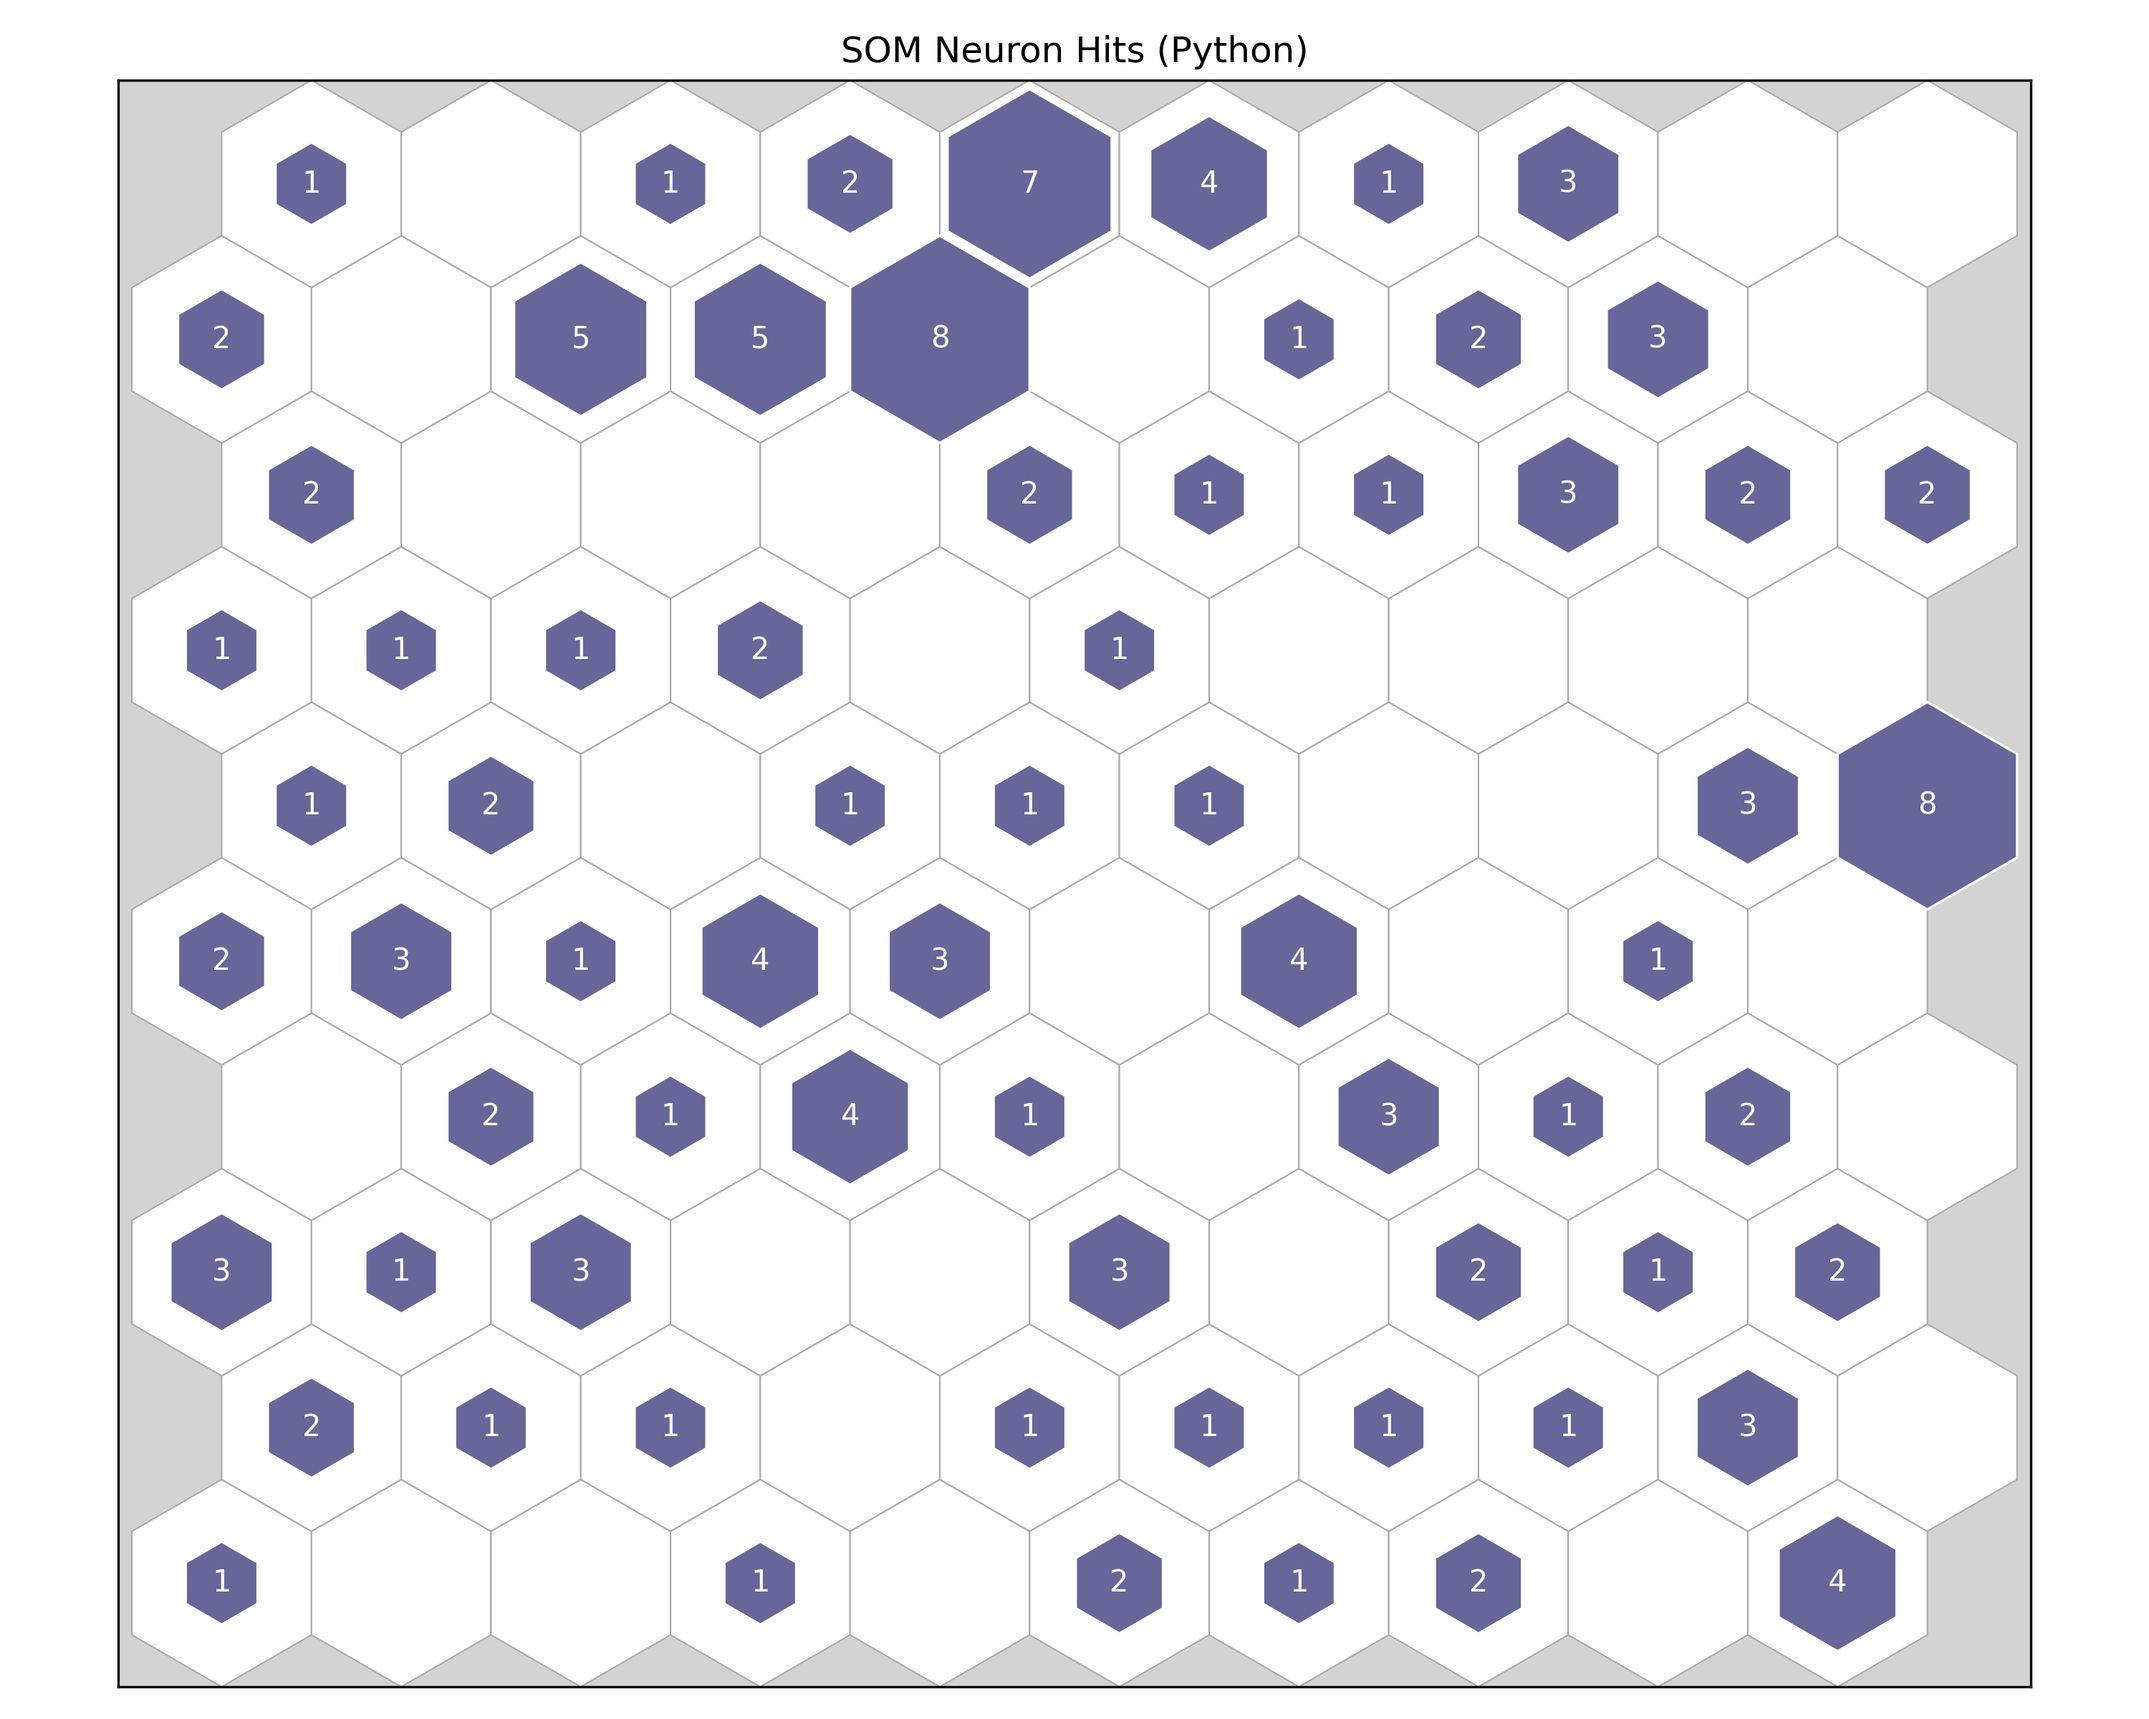
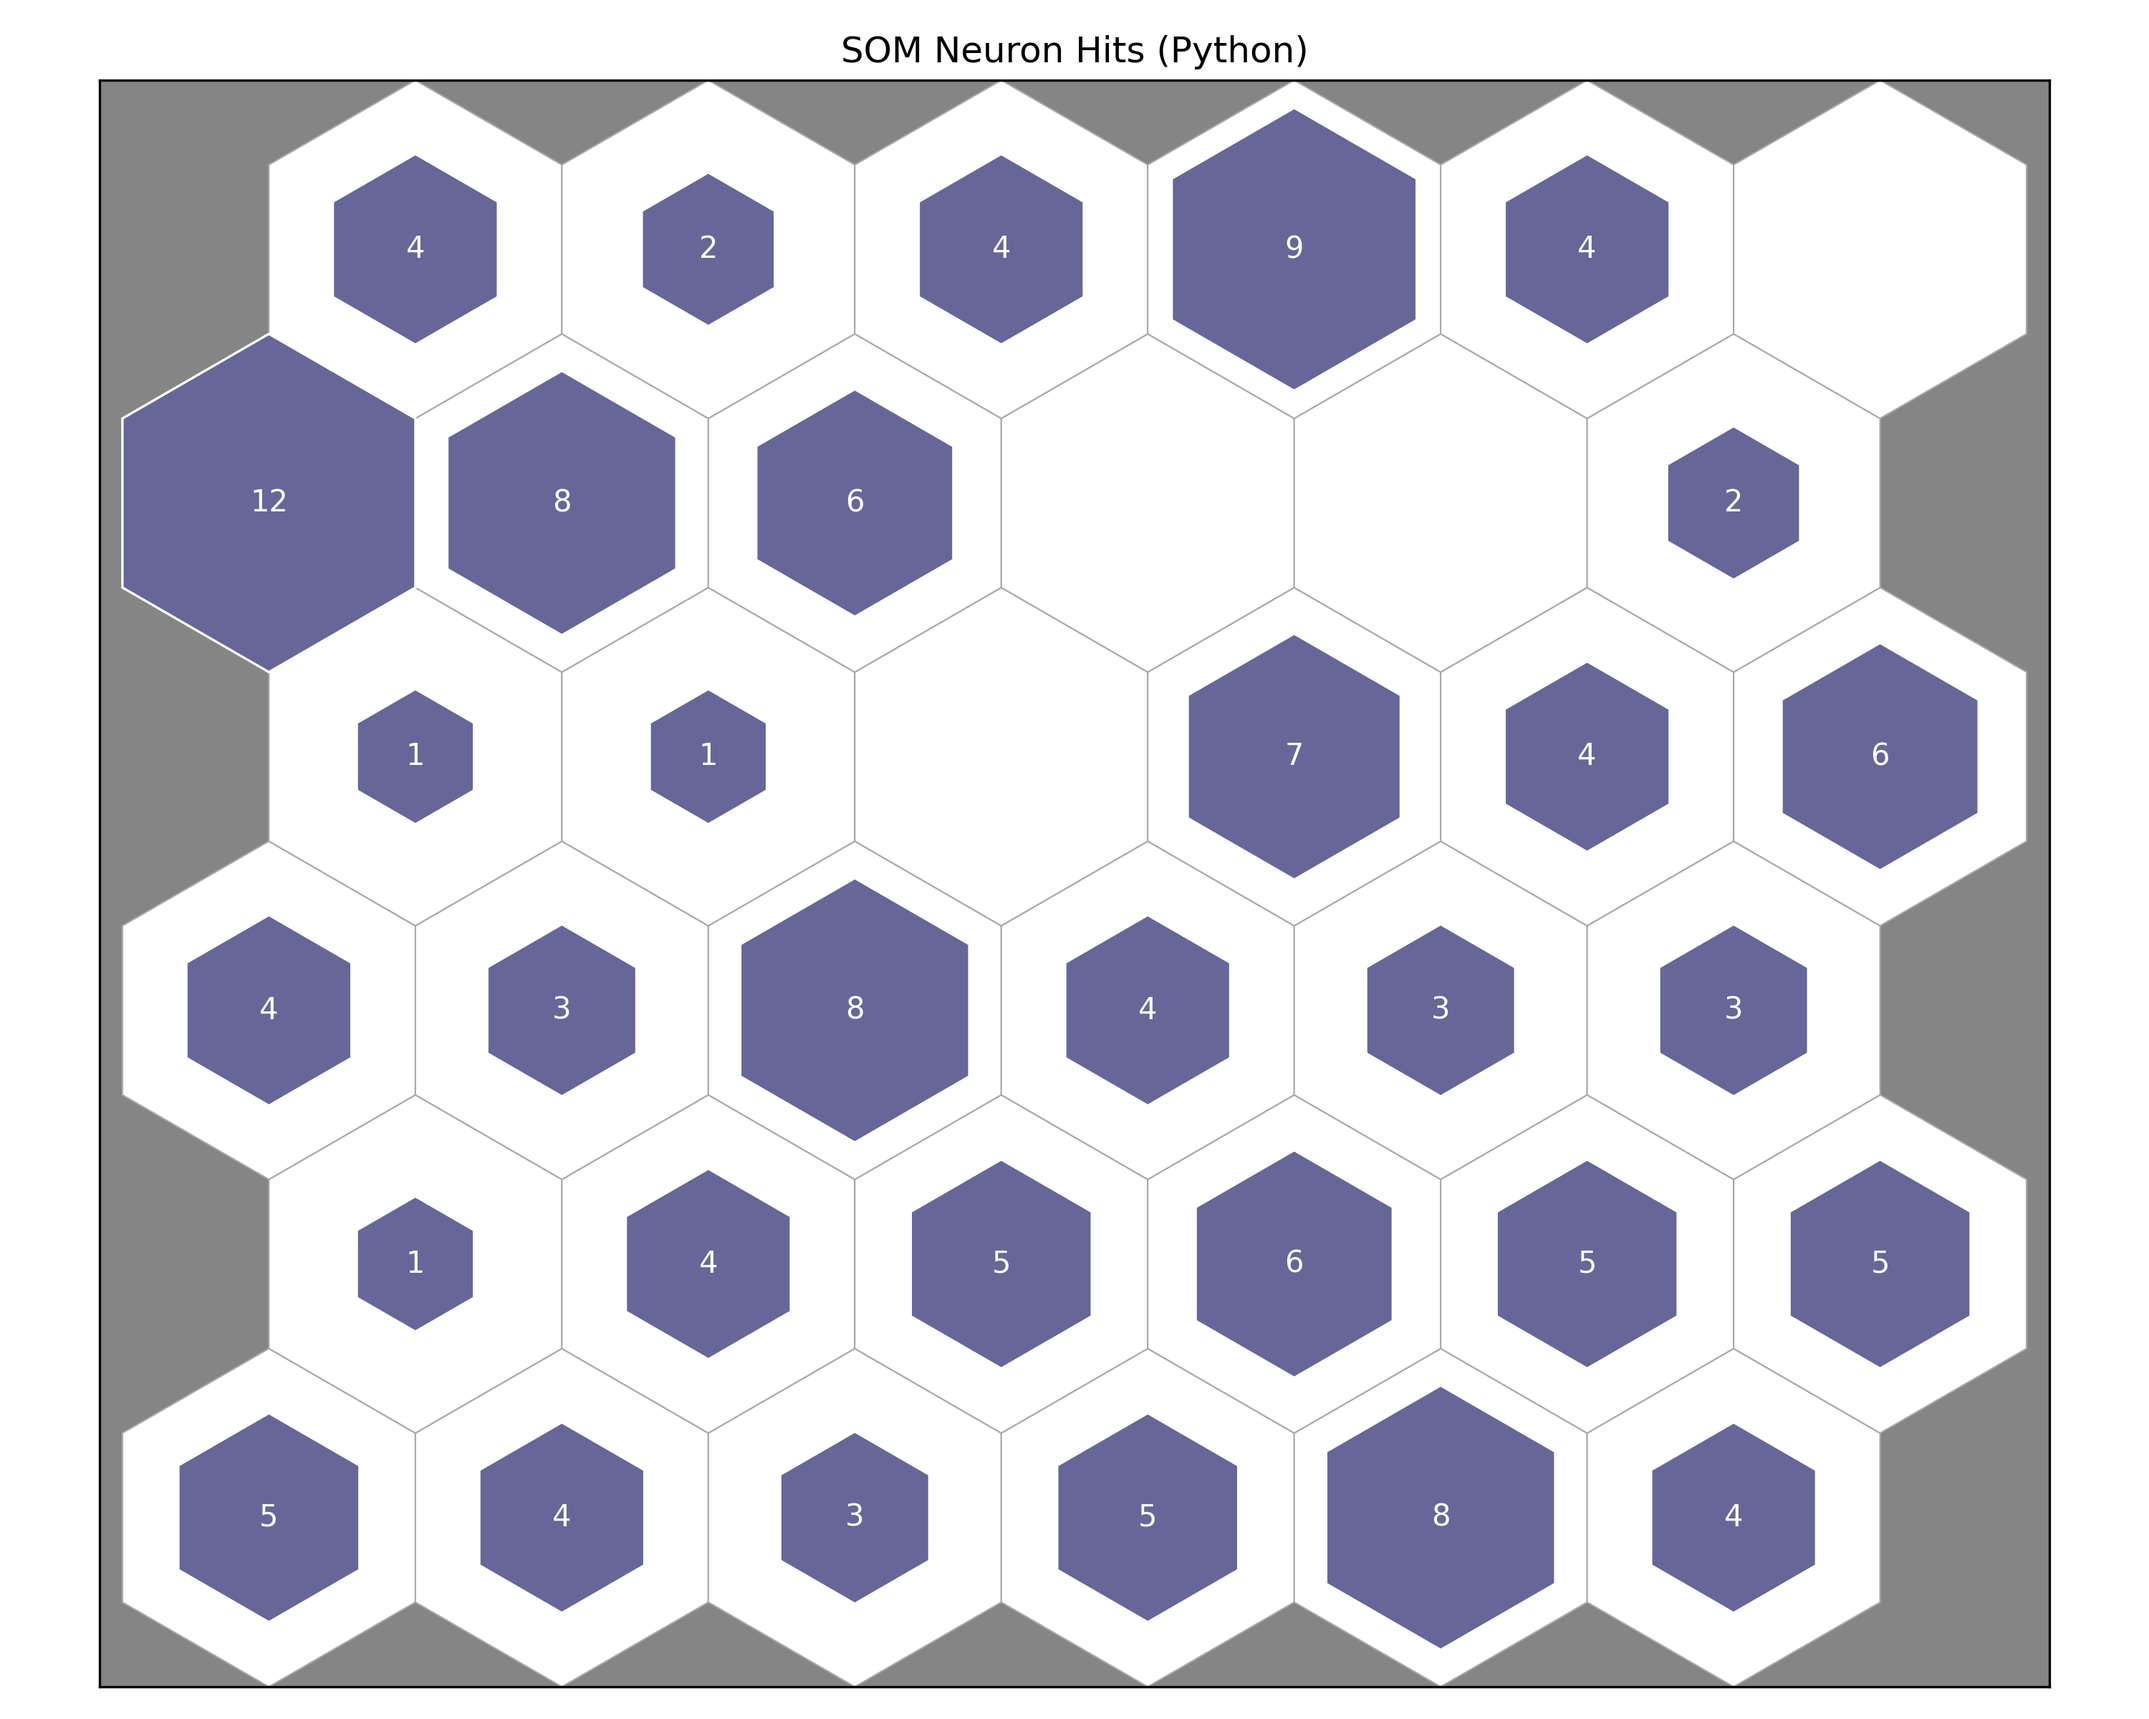
First test run saved with plotting functions

diff --git a/src/python/SelfOrgMap/minisom.py b/src/python/SelfOrgMap/minisom.py
@@ -680,7 +680,7 @@ class MiniSom(object):
 
         return um / um.max()
 
-    def plot_u_matrix(self, figsize=(10, 8), cmap="hot"):
+    def plot_u_matrix(self, figsize=(10, 8), cmap="hot", save=False):
         """
         Visualisiert die Unified Distance Matrix (U-Matrix) des SOM.
         Die U-Matrix zeigt die durchschnittlichen Abstände zwischen einem Neuron
@@ -705,9 +705,7 @@ class MiniSom(object):
 
         fig, ax = plt.subplots(figsize=figsize)
         ax.set_aspect("equal")
-        ax.set_facecolor(
-            "lightgray"
-        )  # Hintergrund des Plotbereichs auf hellgrau setzen
+        ax.set_facecolor("#858585")  # Hintergrund des Plotbereichs auf hellgrau setzen
 
         neuron_plot_radius = 1 / sqrt(3)  # Radius für "Rand an Rand" Darstellung
 
@@ -733,7 +731,6 @@ class MiniSom(object):
                     radius=neuron_plot_radius,
                     orientation=0,  # Flat-top Ausrichtung
                     facecolor=color,
-                    edgecolor="darkgray",
                     linewidth=0.5,
                     zorder=0,
                 )
@@ -759,9 +756,10 @@ class MiniSom(object):
         cbar.set_label("Distance in Feature Space")
 
         plt.tight_layout()
+        plt.savefig("som_u_matrix.png", dpi=300) if save else None
         plt.show()
 
-    def plot_som_planes(self, figsize=(12, 12), cmap="hot"):
+    def plot_som_planes(self, figsize=(12, 12), cmap="hot", save=False):
         """
         Visualisiert die einzelnen Feature-Ebenen (Component Planes) des SOM.
         Für jedes Feature wird ein separates Subplot erstellt, das die Gewichte
@@ -805,7 +803,7 @@ class MiniSom(object):
             ax = axes[feature_idx]
             ax.set_aspect("equal")
             ax.set_facecolor(
-                "lightgray"
+                "#858585"
             )  # Hintergrund des Plotbereichs auf hellgrau setzen
 
             feature_plane = self._weights[:, :, feature_idx]
@@ -828,7 +826,6 @@ class MiniSom(object):
                         radius=neuron_plot_radius,
                         orientation=0,  # Flat-top Ausrichtung
                         facecolor=color,
-                        edgecolor="darkgray",
                         linewidth=0.5,
                         zorder=0,
                     )
@@ -860,6 +857,7 @@ class MiniSom(object):
             axes[k].set_visible(False)
 
         plt.tight_layout()
+        plt.savefig("som_planes.png", dpi=300) if save else None
         plt.show()
 
     def plot_som_hits(
@@ -912,7 +910,7 @@ class MiniSom(object):
         ax.set_aspect("equal")
 
         # Hintergrund des Plotbereichs auf hellgrau setzen
-        ax.set_facecolor("lightgray")
+        ax.set_facecolor("#858585")
 
         neuron_centers_display = {}
 
@@ -1036,6 +1034,7 @@ class MiniSom(object):
 
         fig, ax = plt.subplots(figsize=figsize)
         ax.set_aspect("equal")
+        ax.set_facecolor("#858585")
 
         neuron_centers_display = {}
 

diff --git a/src/python/SelfOrgMap/minisom_test.py b/src/python/SelfOrgMap/minisom_test.py
@@ -1,6 +1,7 @@
 from minisom import MiniSom  # Importiere deine aktualisierte Klasse
 from sklearn.datasets import load_iris
 import numpy as np
+from sklearn.preprocessing import StandardScaler
 
 iris = load_iris()
 data = iris.data
@@ -70,14 +71,17 @@ data = (data - data_min) / (data_max - data_min)
 # --- NEU: input_len dynamisch bestimmen ---
 # Die Anzahl der Merkmale ist die Anzahl der Spalten im 2D-Datenarray
 data = iris.data
+# Daten normalisieren (spaltenweise) mit StandardScaler
+scaler = StandardScaler()
+data = scaler.fit_transform(data)
 num_features = data.shape[1]
 print(f"Anzahl der erkannten Merkmale: {num_features}")
 
 # SOM initialisieren
 # Für ein 8x10 Gitter wie im MATLAB-Beispiel
 som = MiniSom(
-    x=10,
-    y=10,
+    x=6,
+    y=6,
     input_len=num_features,  # Verwende die tatsächliche Anzahl der Merkmale
     sigma=0.6,
     learning_rate=0.9,
@@ -86,21 +90,23 @@ som = MiniSom(
 )
 
 # Gewichte initialisieren (z.B. zufällig oder PCA)
-som.random_weights_init(data)
+som.pca_weights_init(data)
 
 # SOM trainieren
 print("Starte Training...")
 # Setze eine realistische Anzahl von Epochen (z.B. 1 oder 2, nicht 10.000)
-num_epochs = 30
+num_epochs = 1000
 som.train(
     data, num_iteration=num_epochs, random_order=True, use_epochs=True, verbose=True
 )
 print("Training beendet.")
 
 # Den Plot erstellen
-som.plot_u_matrix()
+save_plots = True  # Setze auf True, um die Plots zu speichern
+
+som.plot_u_matrix(save=save_plots)  # U-Matrix Plot
 som.plot_som_neighbor_distances(
-    cmap="hot", figsize=(10, 8), save=False
+    cmap="hot", figsize=(10, 8), save=save_plots
 )  # cmap='hot' ist gut für Distanzen
-som.plot_som_hits(data, save=False)
-som.plot_som_planes()
+som.plot_som_hits(data, save=save_plots)
+som.plot_som_planes(save=save_plots)
